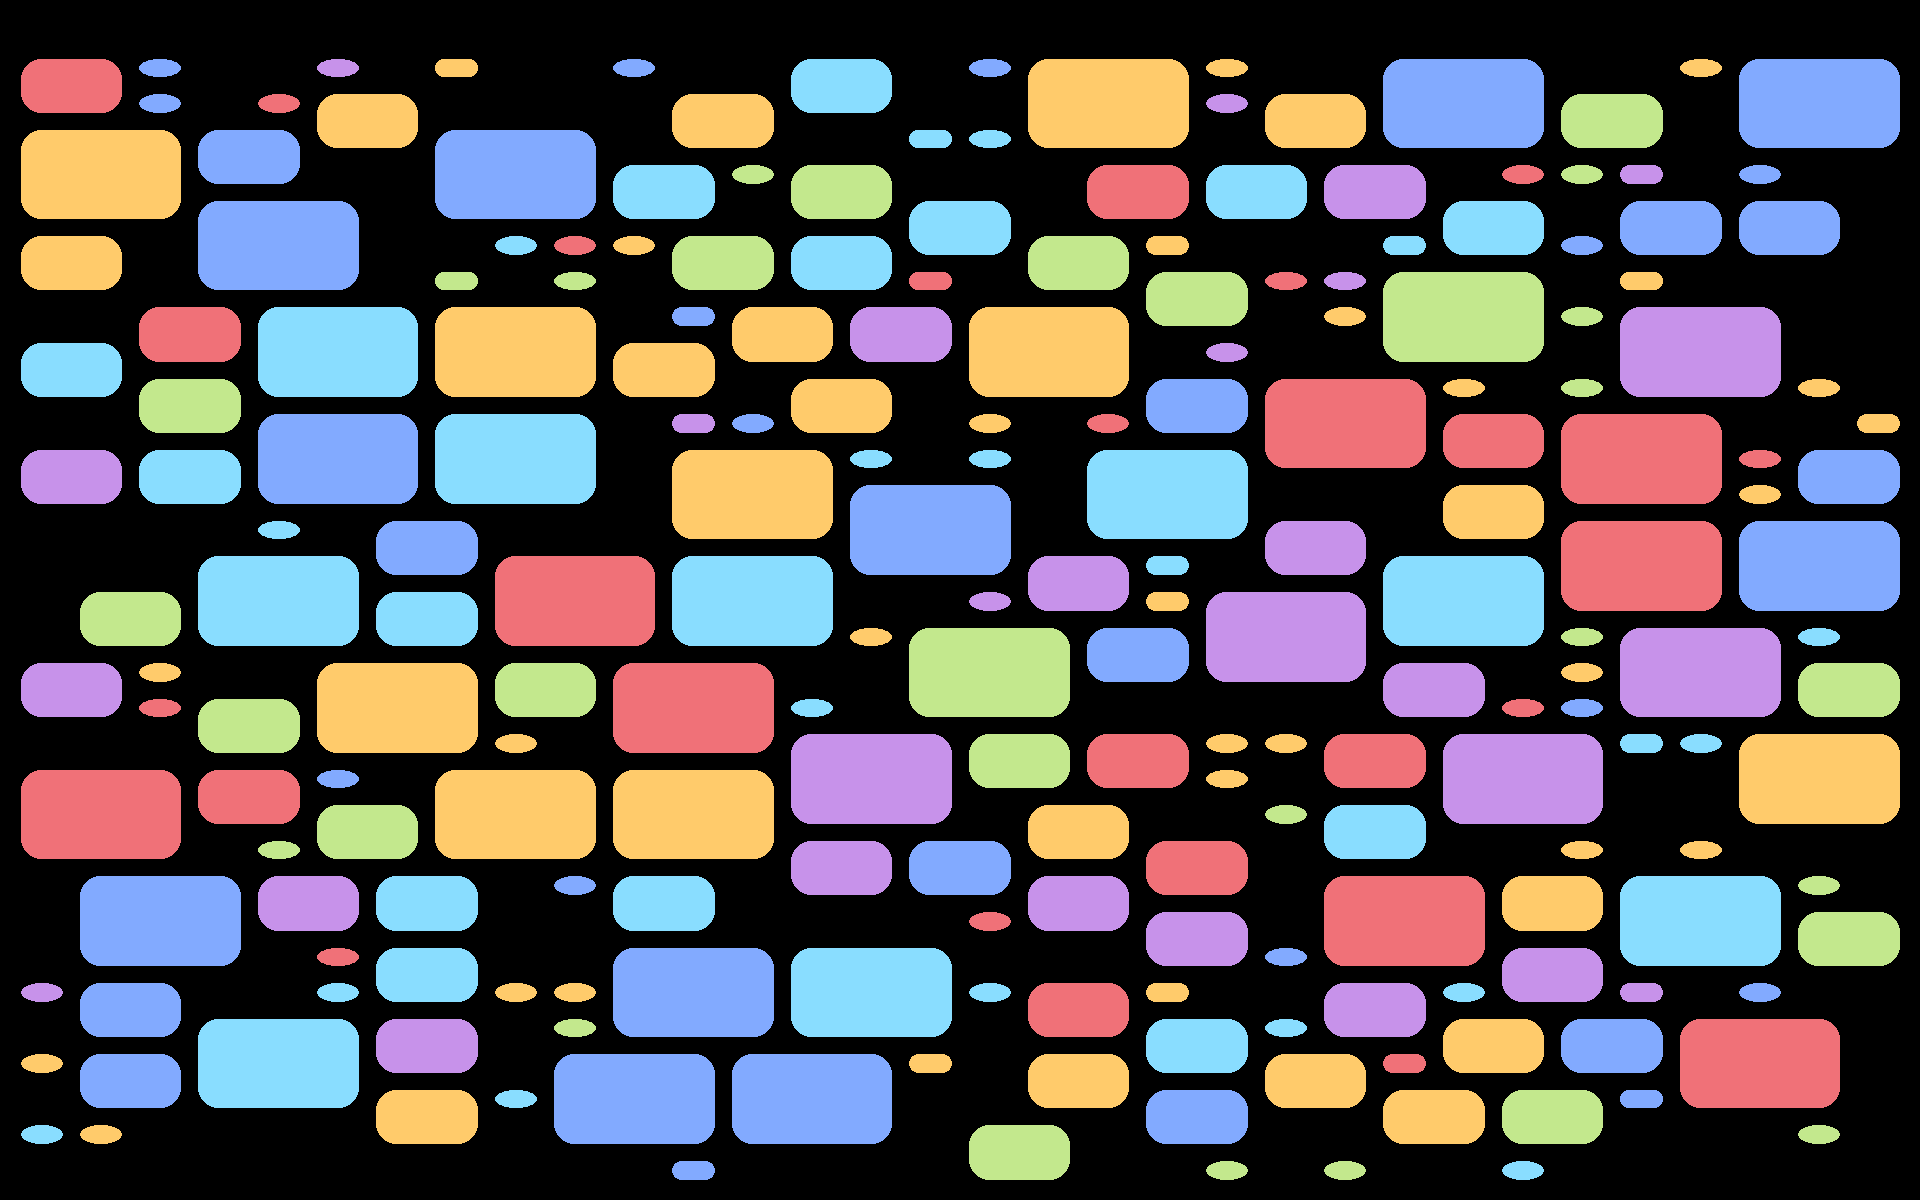
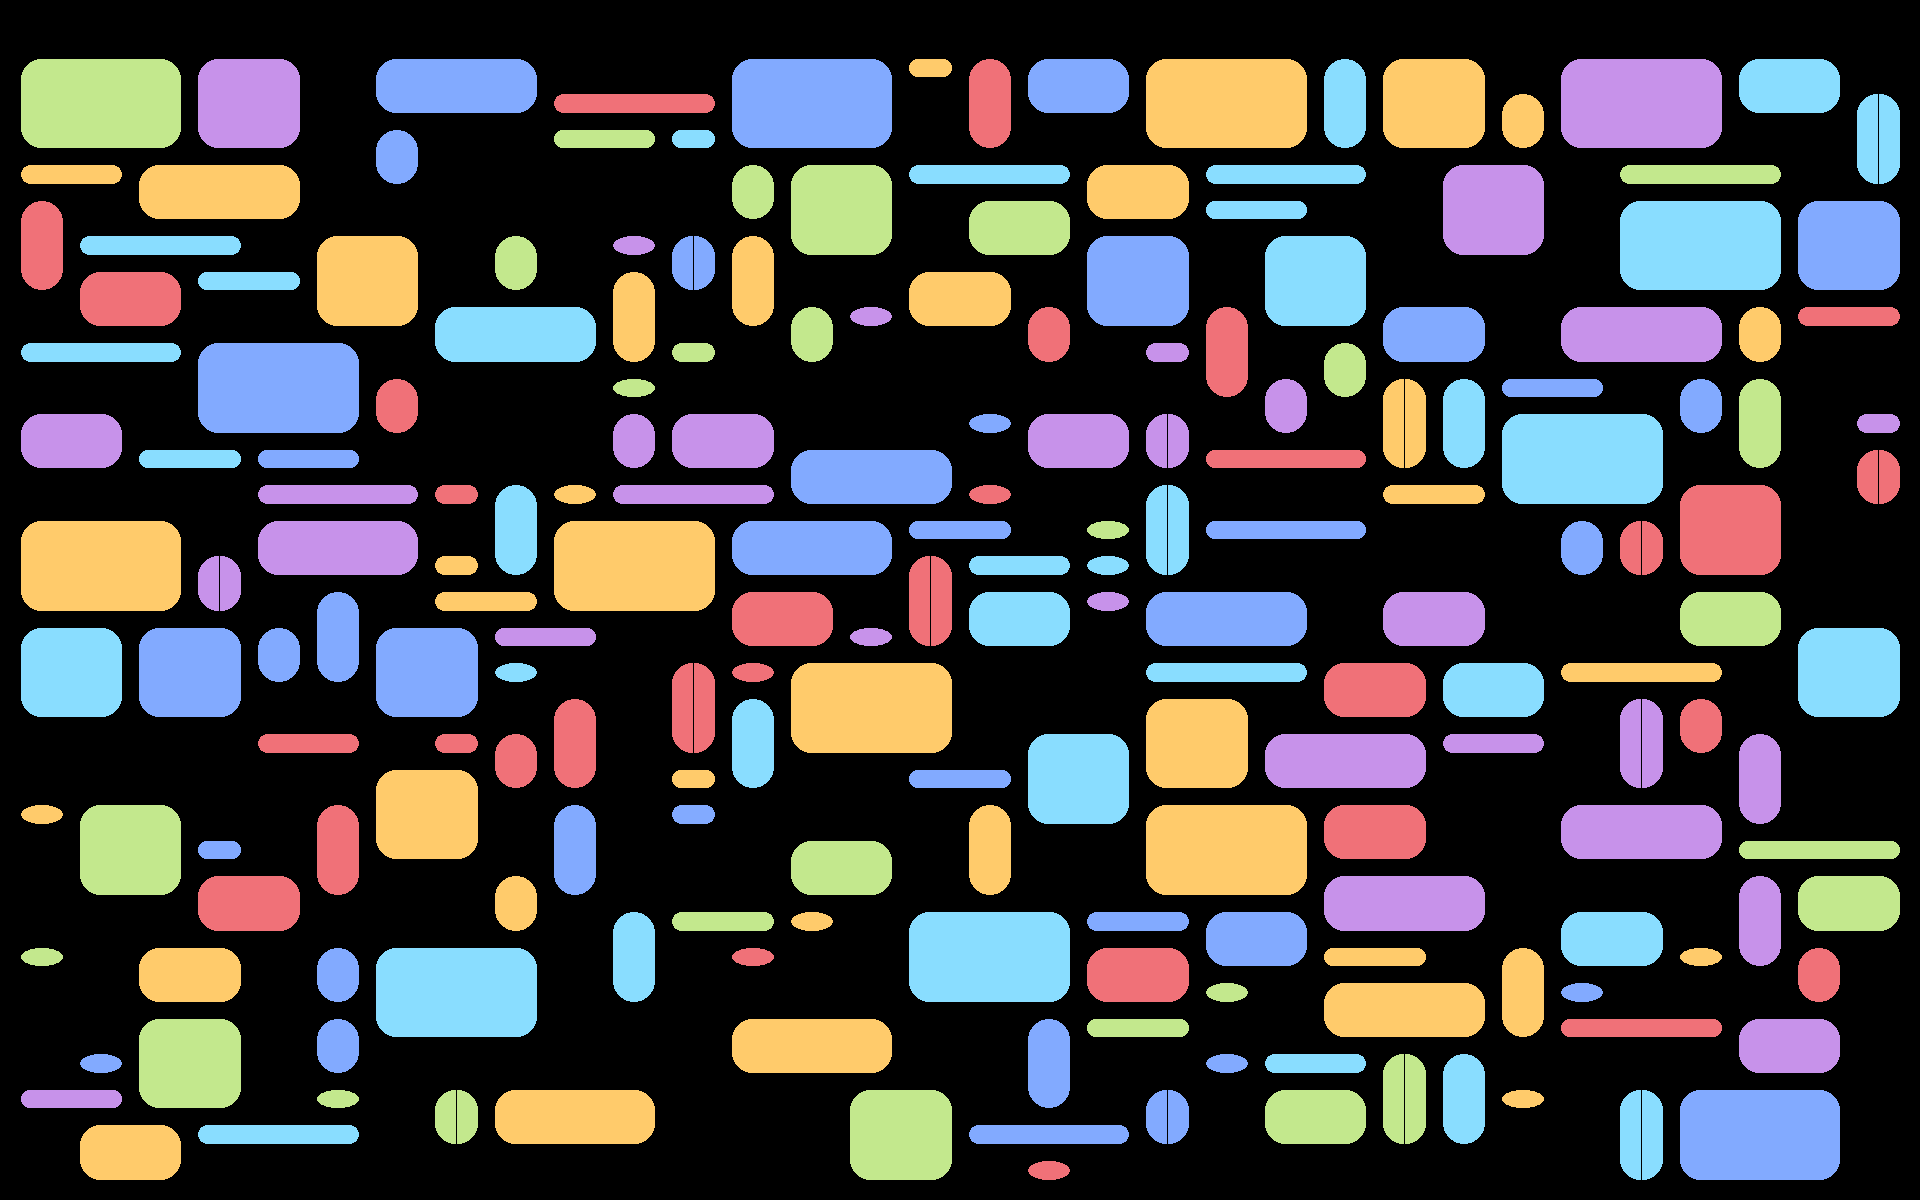
Improve shape merging logic and update aesthetic parameters
Revises the merging logic for recursive shapes by allowing
independent width and height merge sizes, increasing flexibility
and variation in the generated patterns. Updates aesthetic
parameters by setting random seed to None for non-deterministic
results and reducing fill probability to enhance randomness.

Binary wallpaper files updated, likely reflecting new design output.

diff --git a/wallpapers/doodle_wallpaper.py b/wallpapers/doodle_wallpaper.py
@@ -25,8 +25,8 @@ MONITORS = [
 # Shared Aesthetics
 MIN_DEPTH = 2  # Minimum recursion depth (smaller shapes)
 MAX_DEPTH = 6  # Maximum recursion depth (larger shapes)
-RANDOM_SEED = 42  # Set to None for truly random, or a number for reproducible results
-FILL_PROBABILITY = 0.7  # Probability (0-1) that a cell will be filled
+RANDOM_SEED = None  # Set to None for truly random, or a number for reproducible results
+FILL_PROBABILITY = 0.5  # Probability (0-1) that a cell will be filled
 CORNER_RADIUS = 20  # Corner radius for rounded rectangles
 MAX_MERGE_SIZE = 3  # Maximum size of merged cells (1 = no merging, 2 = 2x2, 3 = 3x3, etc.)
 
@@ -68,12 +68,13 @@ def draw_recursive_shapes(draw, x, y, w, h, level, min_level, padding, filled_ce
             return
         
         if random.random() < FILL_PROBABILITY:
-            # Randomly decide merge size (1 means no merge, 2 means 2x2, etc.)
-            merge_size = random.randint(1, MAX_MERGE_SIZE)
+            # Randomly decide merge size for width and height independently
+            merge_w = random.randint(1, MAX_MERGE_SIZE)
+            merge_h = random.randint(1, MAX_MERGE_SIZE)
             
             # Calculate merged dimensions
-            merged_w = w * merge_size
-            merged_h = h * merge_size
+            merged_w = w * merge_w
+            merged_h = h * merge_h
             
             # Check if merged area would exceed container boundaries
             merged_x2 = x + merged_w
@@ -86,8 +87,8 @@ def draw_recursive_shapes(draw, x, y, w, h, level, min_level, padding, filled_ce
             # Check if merged area would overlap with filled cells
             can_merge = not exceeds_boundary
             if can_merge:
-                for i in range(merge_size):
-                    for j in range(merge_size):
+                for i in range(merge_w):
+                    for j in range(merge_h):
                         check_key = (int(x + w * i), int(y + h * j), int(w), int(h))
                         if check_key in filled_cells:
                             can_merge = False
@@ -97,8 +98,8 @@ def draw_recursive_shapes(draw, x, y, w, h, level, min_level, padding, filled_ce
             
             if can_merge:
                 # Mark all merged cells as filled
-                for i in range(merge_size):
-                    for j in range(merge_size):
+                for i in range(merge_w):
+                    for j in range(merge_h):
                         filled_cells.add((int(x + w * i), int(y + h * j), int(w), int(h)))
                 
                 color = random.choice(COLOR_PALETTE)
